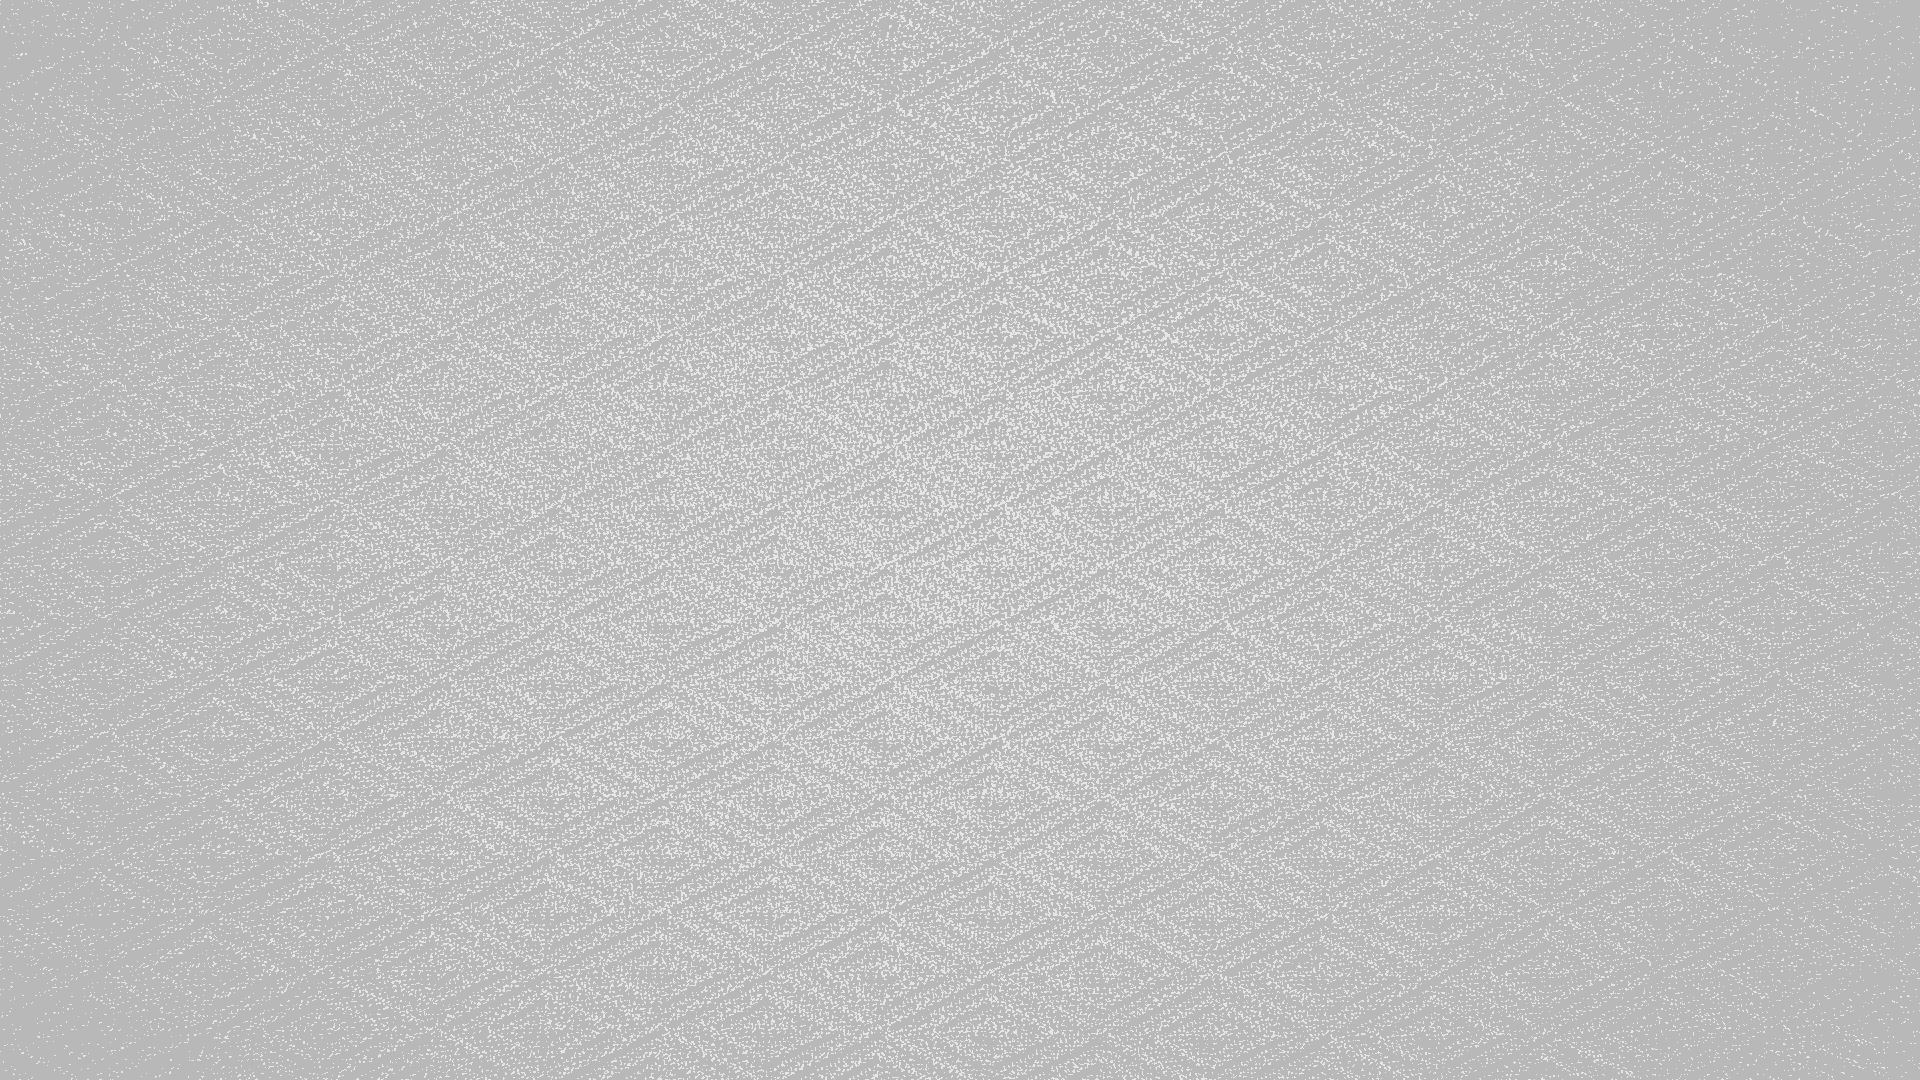
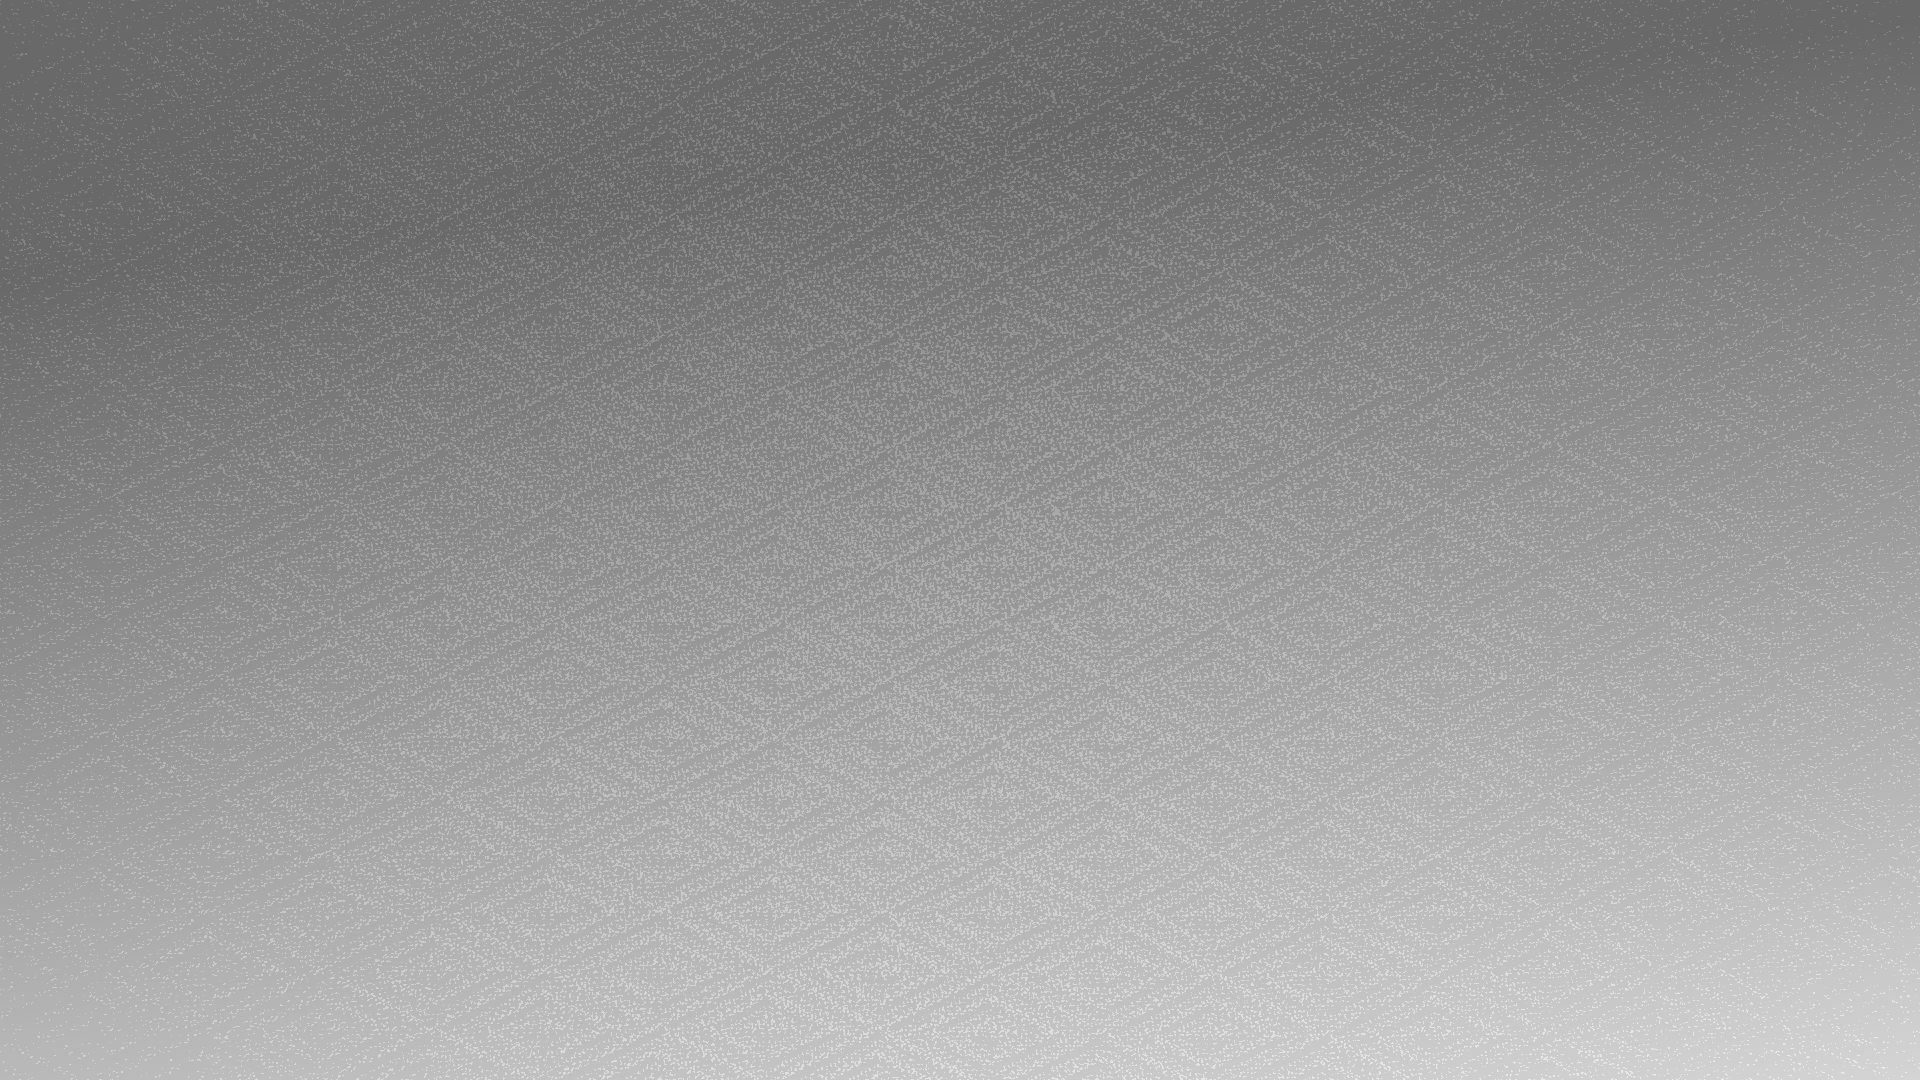
revamp

diff --git a/stylesheets/styles.css b/stylesheets/styles.css
@@ -15,27 +15,33 @@ a:hover{
 body {
         padding:50px;
         /*background-color: #E0F5FF;*/
-        background-image: url("/images/background.png");
+        background: url("../images/background.png") no-repeat center center fixed;
+        background-size: cover;
         /*font:14px/1.5 Lato, "Helvetica Neue", Helvetica, sans-serif;*/
         font:14px/1.5  Helvetica, sans-serif;
         color:#000000;
         font-weight:300;
+        background-color: #FFFFFF;
 }
 
 h1 {
-        color:#0066FF;
+        /*background-color: #000000;*/
+        color:#0033CC;
+        text-shadow: 2px 2px #0066FF;
         margin:0 0 30px 0;
         text-align:center;
 }
 
 button{
 	font-family: "Ubuntu";
+        background-color: #FFFFFF;
 }
 
 h2 {
-        margin:15px 10%;
+        margin:10px 5%;
+        background-color: #FFFFFF;
         text-align:left;
-        color:#A3A3CC;
+        color:#000000;
 }
 h3, h4, h5, h6 {
         margin:5px 15% 0 0;
@@ -43,7 +49,8 @@ h3, h4, h5, h6 {
 
 p, ul, ol, table, pre, dl {
   text-align:left;
-  margin:0 15%; 
+        background-color: #FFFFFF;
+  margin:0 10%; 
 }
 
 a {

diff --git a/index.html b/index.html
@@ -7,7 +7,7 @@
                 <link rel="shortcut icon" href="images/mw.ico"/>
                 <link rel="stylesheet" href="stylesheets/styles.css">
                 <link rel="stylesheet" href="stylesheets/pygment_trac.css">
-                <!--<meta name="viewport" content="width=device-width, initial-scale=1, user-scalable=no">-->
+                <meta name="viewport" content="width=device-width, initial-scale=1, user-scalable=no">
                 <!--[if lt IE 9]>
                 <script src="//html5shiv.googlecode.com/svn/trunk/html5.js"></script>
                 <![endif]-->
@@ -16,6 +16,7 @@
         <center>
         <body>
                         <header>
+                                <div class="wrapper">
                                 <h1>The Max Weis Page of Nonsense</h1>
 
                                 <a class="btn" href="index.html"><button class="btn" type="submit"><font color="blue">home</font></button></a> 

diff --git a/art_home.html b/art_home.html
@@ -29,9 +29,8 @@
                                 <a class="btn" href="videos_home.html"><button class="btn" type="submit">videos</button></a>
                         </header>
                         <section>
-                                <h3>
                                         <br>
-                                        <p>Hello</p>
+                                        <h2>Hello</h2>
 
 
         </body>
